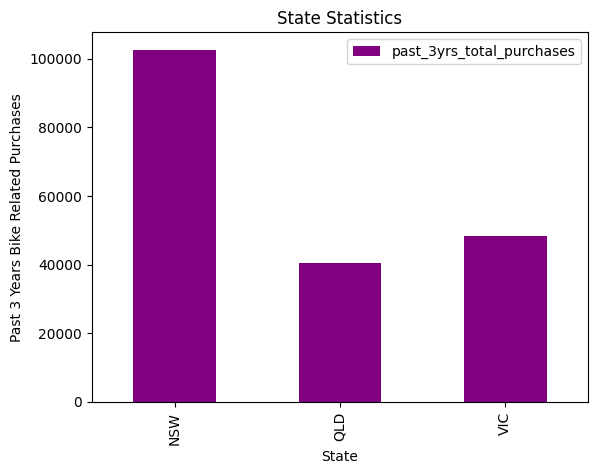
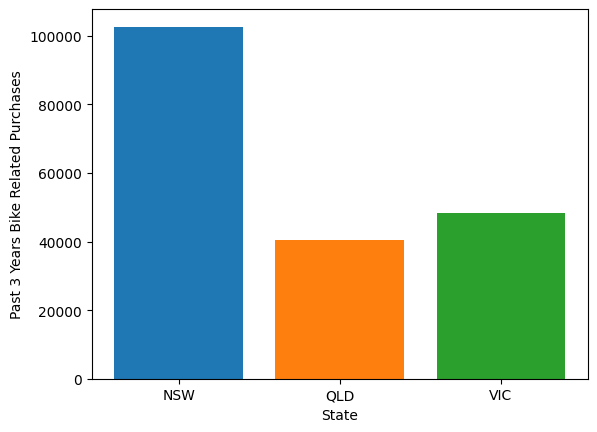
Edit State Plots

diff --git a/data_insights.py b/data_insights.py
@@ -116,19 +116,16 @@ plt.show()
 
 # %%
 dfgp = df_fin.groupby('state')
-
-df_state = pd.DataFrame(columns=['state', 'total_number_of_products', 'past_3yrs_total_purchases'])
-
+dict = {'NSW': 'New South Wales', 'VIC': 'Victoria', 'QLD': 'Queensland'}
 for name, group in dfgp:
-    prod = dfgp.get_group(name).total_number_of_products.sum()
-    past = dfgp.get_group(name).past_3_years_bike_related_purchases.sum()
-    df_state = df_state.append({'state': name, 'total_number_of_products': prod, 'past_3yrs_total_purchases': past},
-                               ignore_index=True)
+    plt.bar(name, dfgp.get_group(name).past_3_years_bike_related_purchases.sum(), label=dict[name], align='center')
 
-df_state.plot(kind='bar', x='state', y=['past_3yrs_total_purchases'], title='State Statistics', color='purple')
 plt.xlabel('State')
 plt.ylabel('Past 3 Years Bike Related Purchases')
 plt.savefig('State Statistics.png', bbox_inches='tight')
+plt.title('State Statistics')
+plt.legend()
 plt.show()
 
+# %%
 
